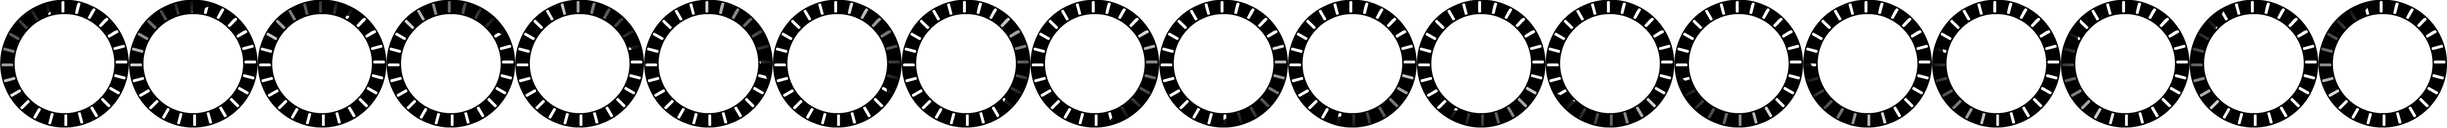
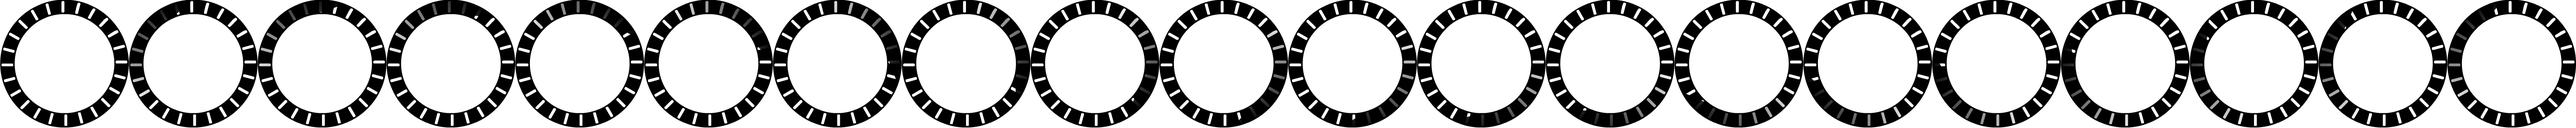
Fix spinner wait image

diff --git a/src/com/mmtechco/surface/ui/component/ActionButtonField.java b/src/com/mmtechco/surface/ui/component/ActionButtonField.java
@@ -43,7 +43,7 @@ public class ActionButtonField extends BaseButtonField {
 	private Bitmap spinnerWait;
 	private Bitmap spinnerTimer;
 	private int numFrames;
-	private int numFramesWait = 19;
+	private int numFramesWait = 20;
 	private int numFramesTimer = 21;
 	private int currentFrame;
 	private int frameWidth;
